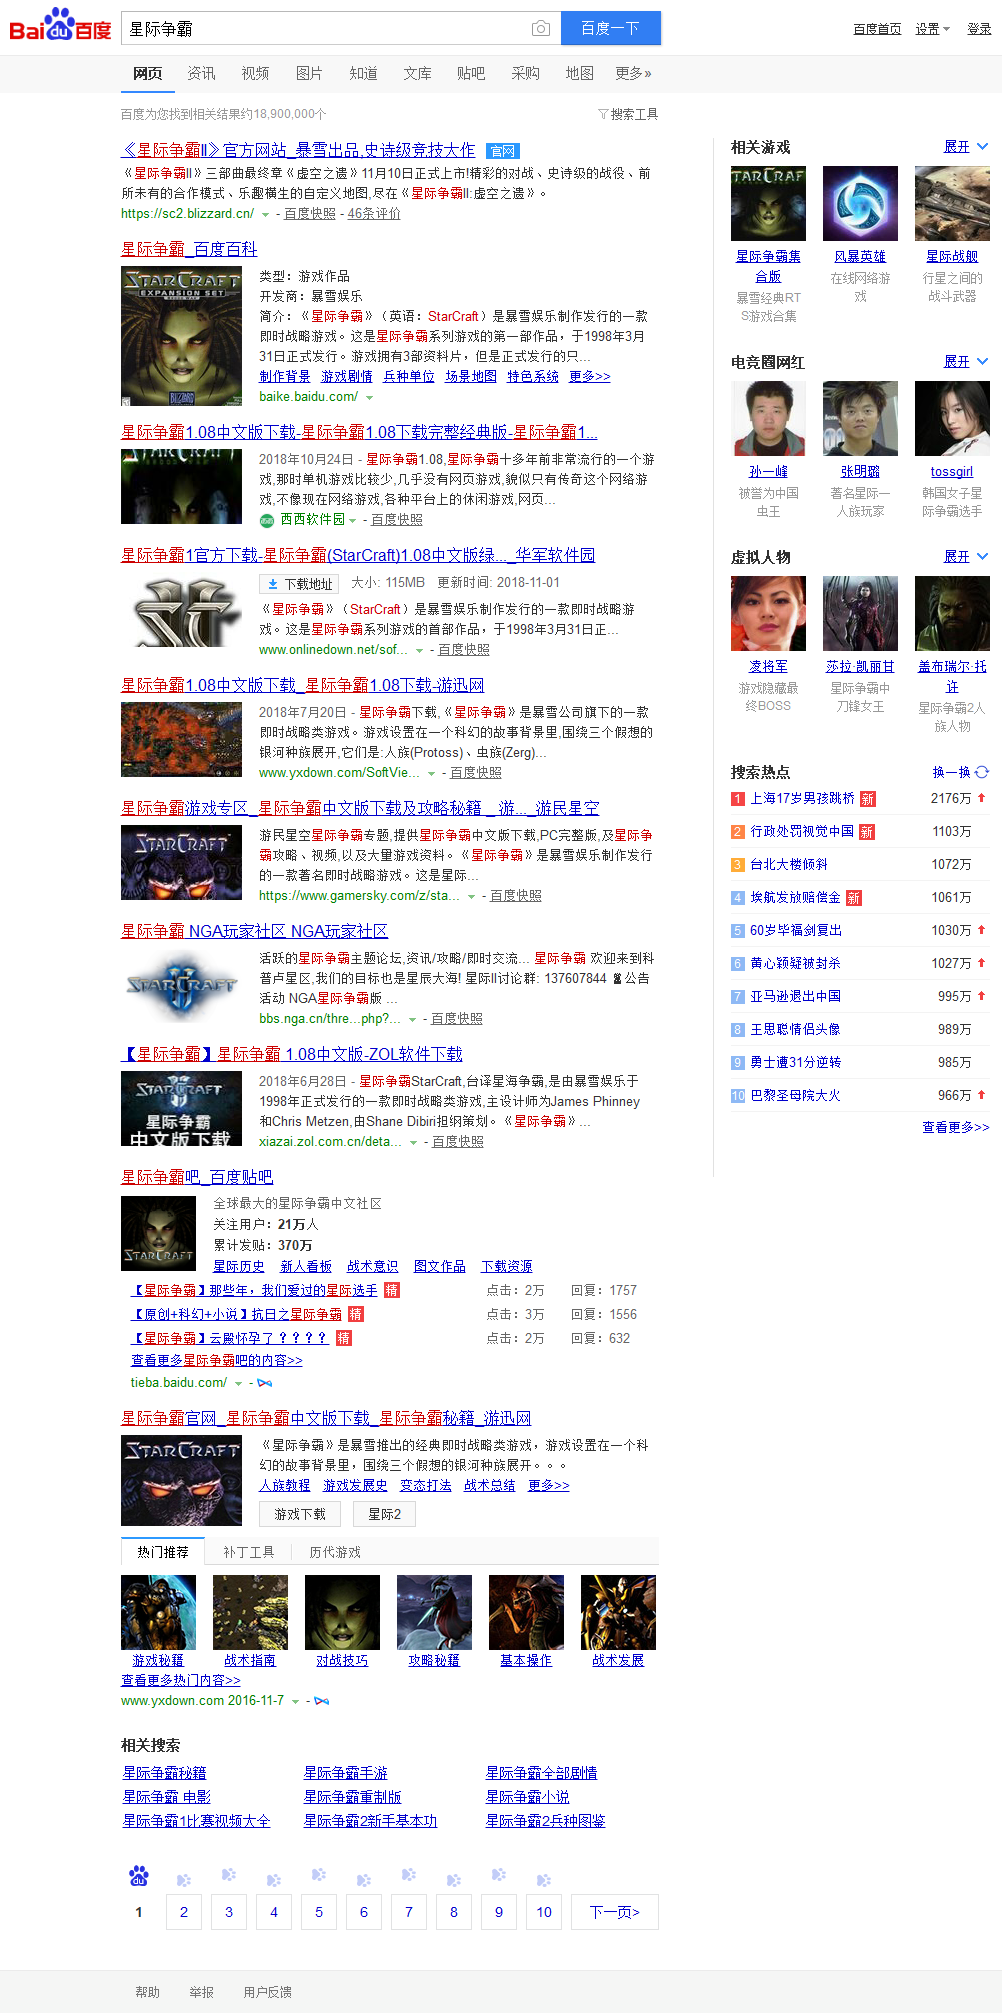
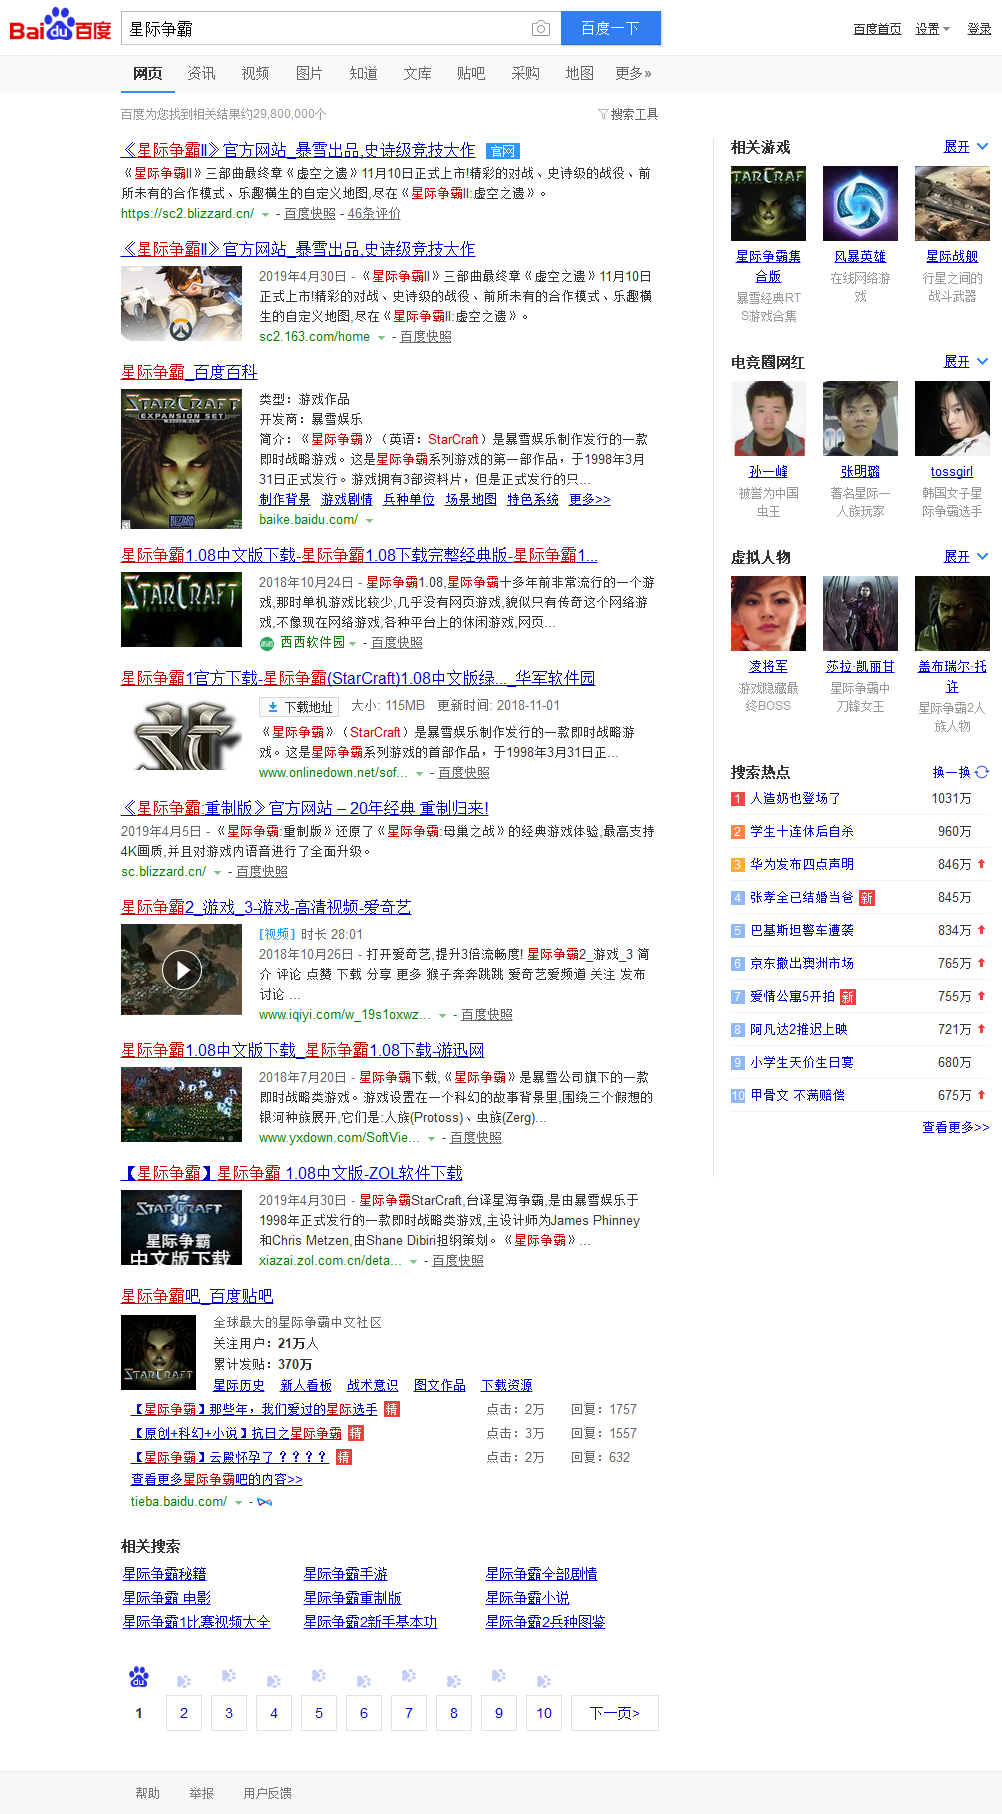
update

diff --git a/sl/firefox.py b/sl/firefox.py
@@ -1,38 +1,42 @@
 # -*- encoding: utf-8 -*-
 '''
-@File    :   operation.py    
+@File    :   firefox.py    
 @Modify Time      @Author       @Desciption
 ------------      -------       -----------
-2019/4/18 15:34   Jonas           None
+2019/5/10 17:07   Jonas           None
 '''
+ 
 import time
-
+from selenium.webdriver.firefox.options import Options
 from selenium import webdriver
-
+firefox_options = Options()
+firefox_options.add_argument('--headless')
+firefox_options.add_argument('--disable-gpu')
 # 模拟创建一个浏览器对象，然后通过对象去操作浏览器
-path = 'E:\开发工具\chromedriver.exe'
-browser = webdriver.Chrome(executable_path=path)
+path = 'E:\开发工具\geckodriver.exe'
+browser = webdriver.Firefox(executable_path=path,firefox_options=firefox_options)
 
 url = "https://www.baidu.com"
 browser.get(url)
 
-time.sleep(3)
+# time.sleep(3)
 # 查找input输入框
 my_input = browser.find_element_by_id('kw')
 # 往框里面写入文字
 my_input.send_keys("星际争霸")
 
-time.sleep(3)
+# time.sleep(3)
 
 # 查找搜索按钮
 button = browser.find_element_by_class_name('s_btn')
 button.click()
+browser.save_screenshot('baidu222.png')
 
-time.sleep(3)
+# time.sleep(3)
 
 button = browser.find_element_by_xpath('//*[@id="2"]/h3/a')
 button.click()
 
-time.sleep(3)
+# time.sleep(3)
 
 browser.quit()

diff --git a/sl/chrome.py b/sl/chrome.py
@@ -1,24 +1,22 @@
 # -*- encoding: utf-8 -*-
 '''
-@File    :   phantomjs.py    
+@File    :   chrome.py
 @Modify Time      @Author       @Desciption
 ------------      -------       -----------
-2019/4/18 17:02   Jonas           None
+2019/4/18 15:34   Jonas           None
 '''
 import time
 
 from selenium import webdriver
 
-path = r'E:\开发工具\phantomjs-2.1.1-windows\bin\phantomjs.exe'
-
-browser = webdriver.PhantomJS(path)
+# 模拟创建一个浏览器对象，然后通过对象去操作浏览器
+path = 'E:\开发工具\chromedriver.exe'
+browser = webdriver.Chrome(executable_path=path)
 
 url = "https://www.baidu.com"
 browser.get(url)
 
 time.sleep(3)
-
-browser.save_screenshot(r'phantomjs\baidu.png')
 # 查找input输入框
 my_input = browser.find_element_by_id('kw')
 # 往框里面写入文字
@@ -32,6 +30,9 @@ button.click()
 
 time.sleep(3)
 
-browser.save_screenshot(r'phantomjs\starcraft.png')
-# quit之后才会保存截图
+button = browser.find_element_by_xpath('//*[@id="2"]/h3/a')
+button.click()
+
+time.sleep(3)
+
 browser.quit()

diff --git a/urlopen/build_request_get2.py b/urlopen/build_request_get2.py
@@ -2,6 +2,7 @@
 import urllib
 
 url = 'https://movie.douban.com/j/chart/top_list?type=5&interval_id=100%3A90&action='
+url2 = 'http://10.153.195.92:8080/rdmp/clientAction.do?method=json&common=queryById&classes=userOptionServiceImpl&userid=lijun2'
 
 '''
 start=0 limit=20
@@ -29,4 +30,8 @@ url+=query_string
 request = urllib.request.Request(url=url,headers=headers)
 response = urllib.request.urlopen(request)
 
+req = urllib.request.Request(url=url2)
+req.add_header('User-Agent','Mozilla/5.0 (Windows NT 6.1; Win64; x64) AppleWebKit/537.36 (KHTML, like Gecko) Chrome/62.0.3202.62 Safari/537.36')
+
+response = urllib.request.urlopen(req)
 print(response.read().decode())

diff --git a/headless_chrome/headless_chrome.py b/headless_chrome/headless_chrome.py
@@ -21,7 +21,7 @@ browser = webdriver.Chrome(executable_path=path,chrome_options=chrome_options)
 url = 'https://www.baidu.com'
 
 browser.get(url)
-time.sleep(3)
+# time.sleep(3)
 
 browser.save_screenshot('baidu.png')
 

diff --git a/verfication_code/gushiwen.py b/verfication_code/gushiwen.py
@@ -8,7 +8,6 @@
  
 import requests
 from bs4 import BeautifulSoup
-import urllib.request
 
 headers = {
     'User-Agent': "Mozilla/5.0 (Windows NT 10.0; WOW64) AppleWebKit/537.36 (KHTML, like Gecko) "
